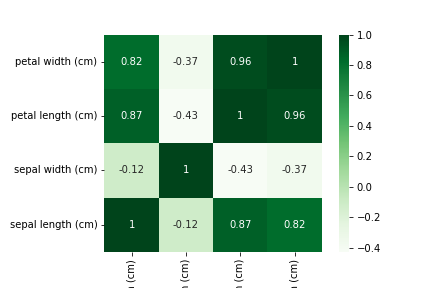
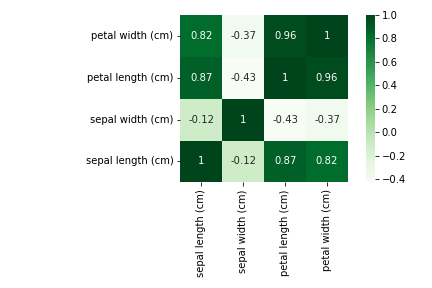
fixed cut off x-axis labels in corr matrix and re-spaced histograms

diff --git a/common_ML_algorithms/knn/knn.py b/common_ML_algorithms/knn/knn.py
@@ -1,11 +1,8 @@
-import numpy as np
-import pandas as pd
 from sklearn.neighbors import KNeighborsClassifier
 from sklearn.datasets import load_iris
 from sklearn.model_selection import train_test_split
 from sklearn import metrics
-import matplotlib.pyplot as plt
-import seaborn as sns
+from plotKNN import plotKNN
 
 ## load and split
 iris_data = load_iris()
@@ -23,28 +20,5 @@ y_hat = sk_knn.predict(X_test)
 ## evaluate
 print("Accuracy:",metrics.accuracy_score(y_test, y_hat))
 
-## create dataframes for visualization
-iris_df = pd.DataFrame(data=np.c_[iris_data['data'], iris_data['target']], columns=iris_data['feature_names'] + ['target'])
-
-## histograms
-fig, axs = plt.subplots(2, 2, figsize=(7, 7))
-sns.histplot(data=iris_df, x=iris_data.feature_names[0], bins=50, color="chartreuse", ax=axs[0, 0])
-sns.histplot(data=iris_df, x=iris_data.feature_names[1], bins=50, color="lawngreen", ax=axs[0, 1])
-sns.histplot(data=iris_df, x=iris_data.feature_names[2], bins=50, color="green", ax=axs[1, 0])
-sns.histplot(data=iris_df, x=iris_data.feature_names[3], bins=50, color="lime", ax=axs[1, 1])
-plt.savefig('knn_histograms.png')
-plt.show()
-
-## correlation matrix
-ax = sns.heatmap(iris_df[iris_data.feature_names].corr(), cmap="Greens", annot=True, square=True)
-ax.set_ylim(0, len(iris_df[iris_data.feature_names].corr()))
-plt.savefig('knn_corr_matrix.png')
-plt.show()
-
-## pairplots
-iris_df['target'][iris_df["target"] == 0.0] = iris_data.target_names[0]
-iris_df['target'][iris_df["target"] == 1.0] = iris_data.target_names[1]
-iris_df['target'][iris_df["target"] == 2.0] = iris_data.target_names[2]
-sns.pairplot(iris_df, hue="target")
-plt.savefig('knn_pairplots.png')
-plt.show()
+## plotting
+plotKNN(iris_data)

diff --git a/common_ML_algorithms/knn/plotKNN.py b/common_ML_algorithms/knn/plotKNN.py
@@ -1,0 +1,34 @@
+import numpy as np
+import pandas as pd
+import matplotlib.pyplot as plt
+import seaborn as sns
+
+def plotKNN(input_data):
+    
+    ## create dataframe for visualization
+    df = pd.DataFrame(data=np.c_[input_data['data'], input_data['target']], columns=input_data['feature_names'] + ['target'])
+    
+    ## histograms
+    fig, axs = plt.subplots(2, 2, figsize=(7, 7))
+    sns.histplot(data=df, x=input_data.feature_names[0], bins=50, color="chartreuse", ax=axs[0, 0])
+    sns.histplot(data=df, x=input_data.feature_names[1], bins=50, color="lawngreen", ax=axs[0, 1])
+    sns.histplot(data=df, x=input_data.feature_names[2], bins=50, color="green", ax=axs[1, 0])
+    sns.histplot(data=df, x=input_data.feature_names[3], bins=50, color="lime", ax=axs[1, 1])
+    fig.tight_layout()
+    plt.savefig('knn_histograms.png')
+    plt.show()
+    
+    ## correlation matrix
+    ax = sns.heatmap(df[input_data.feature_names].corr(), cmap="Greens", annot=True, square=True)
+    ax.set_ylim(0, len(df[input_data.feature_names].corr()))
+    plt.tight_layout()
+    plt.savefig('knn_corr_matrix.png')
+    plt.show()
+    
+    ## pairplots
+    df['target'][df["target"] == 0.0] = input_data.target_names[0]
+    df['target'][df["target"] == 1.0] = input_data.target_names[1]
+    df['target'][df["target"] == 2.0] = input_data.target_names[2]
+    sns.pairplot(df, hue="target")
+    plt.savefig('knn_pairplots.png')
+    plt.show()
